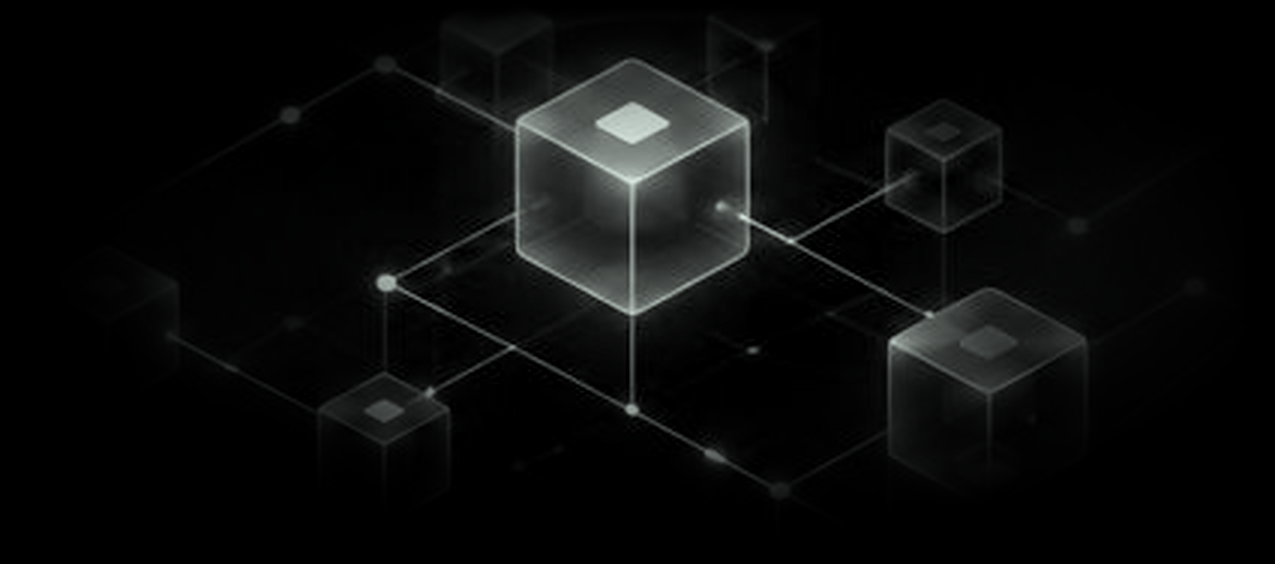
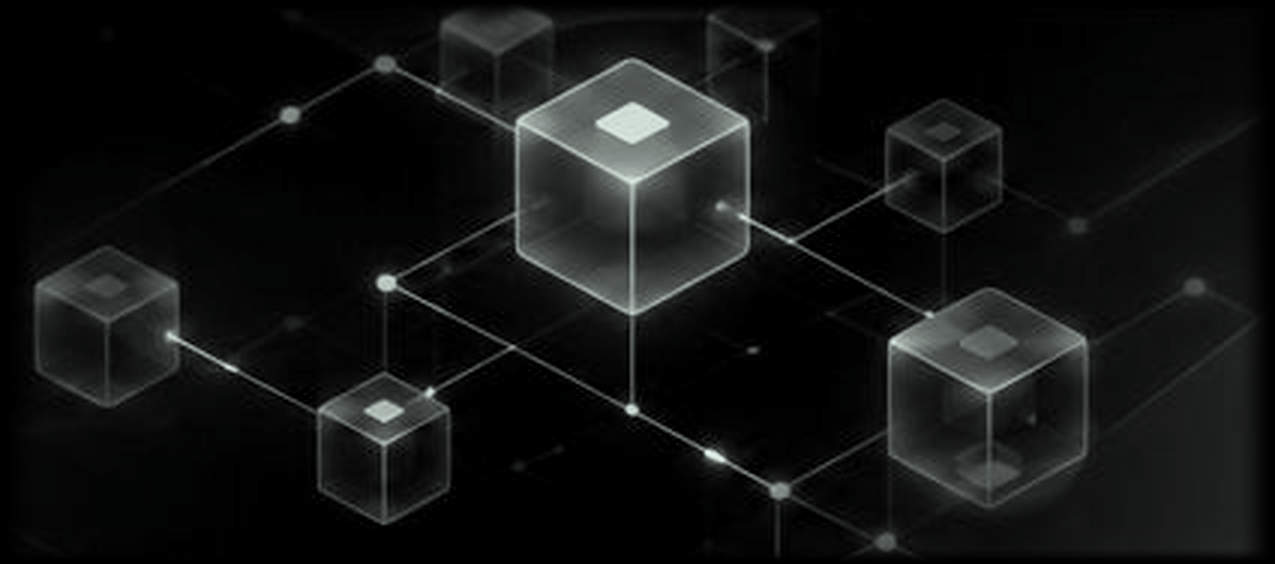
Elevate Donor Overview backdrop and use asymmetrical diagonal fade

diff --git a/frontend/src/views/DashboardOverview.css b/frontend/src/views/DashboardOverview.css
@@ -1221,30 +1221,32 @@
   z-index: 1;
 }
 
-/* Vercel Geist Theme-Reactive Exact-Reference 3D Glass Isometric Blockchain Backdrop */
+/* Vercel Geist Theme-Reactive Exact-Reference 3D Glass Isometric Blockchain Backdrop
+   Asymmetrical oblique sweep: stays 100% crisp across upper-right & right, dissolving
+   gradually along a diagonal axis toward the lower-left donor identity area. */
 .dbo-hero-bg-mesh {
   position: absolute;
-  top: -26px;
+  top: -46px;
   right: -8px;
-  bottom: 10px;
+  bottom: 18px;
   left: 0;
   pointer-events: none;
   user-select: none;
   z-index: 0;
   background-image: url('/donor-hero-mesh-light.png');
-  background-size: auto 104%;
+  background-size: auto 108%;
   background-position: right top;
   background-repeat: no-repeat;
   mix-blend-mode: multiply;
-  opacity: 0.46;
-  -webkit-mask-image: radial-gradient(ellipse 44% 76% at 75% 38%, rgba(0, 0, 0, 1) 0%, rgba(0, 0, 0, 0.88) 32%, rgba(0, 0, 0, 0.34) 64%, rgba(0, 0, 0, 0) 92%);
-  mask-image: radial-gradient(ellipse 44% 76% at 75% 38%, rgba(0, 0, 0, 1) 0%, rgba(0, 0, 0, 0.88) 32%, rgba(0, 0, 0, 0.34) 64%, rgba(0, 0, 0, 0) 92%);
+  opacity: 0.42;
+  -webkit-mask-image: linear-gradient(242deg, rgba(0, 0, 0, 1) 0%, rgba(0, 0, 0, 1) 44%, rgba(0, 0, 0, 0.48) 62%, rgba(0, 0, 0, 0) 80%);
+  mask-image: linear-gradient(242deg, rgba(0, 0, 0, 1) 0%, rgba(0, 0, 0, 1) 44%, rgba(0, 0, 0, 0.48) 62%, rgba(0, 0, 0, 0) 80%);
 }
 
 [data-theme="dark"] .dbo-hero-bg-mesh {
   background-image: url('/donor-hero-mesh-dark.png');
   mix-blend-mode: screen;
-  opacity: 0.5;
+  opacity: 0.46;
 }
 
 .dbo-hero-eyebrow-row {
